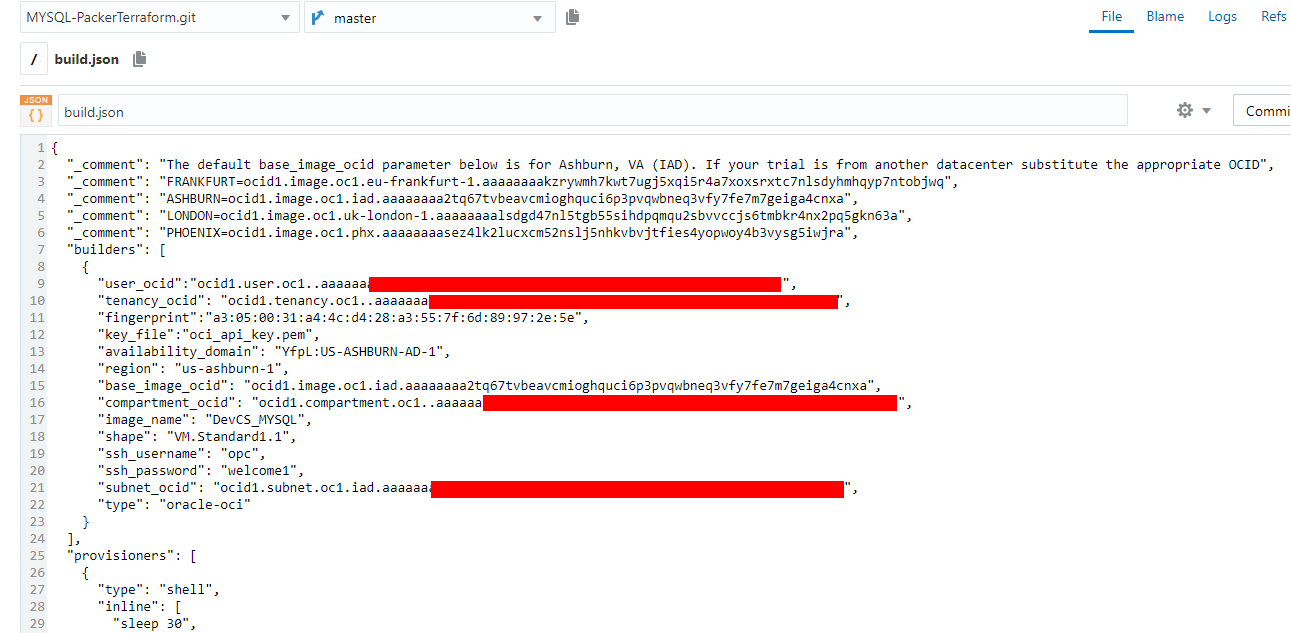
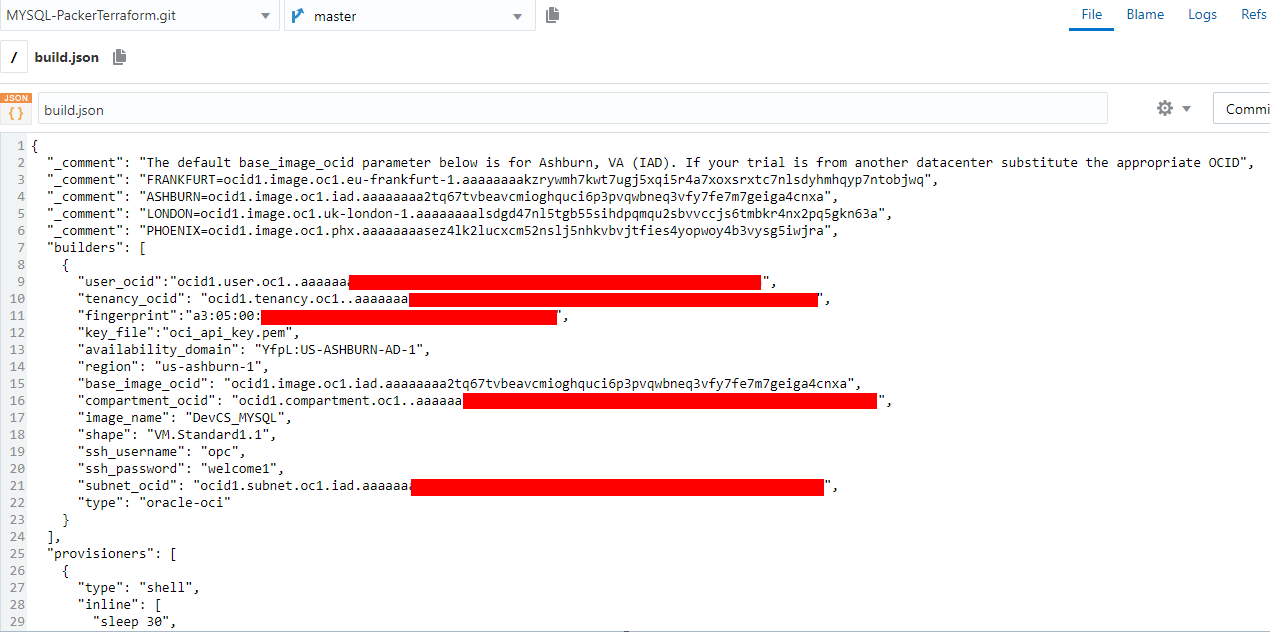
Updates for new trials

Changed region(s): [[0.0, 0.0, 1.0, 1.0], [0.8291, 0.0, 1.0, 0.0601]]

diff --git a/workshops/devcs-mysql/Lab100.md b/workshops/devcs-mysql/Lab100.md
@@ -442,7 +442,7 @@ You need to create two sets of SSH keys, the API key pair will allow access via 
 
   ![](images/100/27-4.PNG)
 
-### **STEP 9**: Create Software Template and Virtual Machine configurations
+### **STEP 10**: Create Software Template and Virtual Machine configurations
 
 In this step Software Templates define what supporting software packages get incorporated into the build servers used within Developer Cloud Service projects. Virtual Machine definitions define the number of VMs based on the Software Templates.
 
@@ -487,7 +487,7 @@ In this step Software Templates define what supporting software packages get inc
 
   ![](images/100/44.PNG)
 
-### **Step 10**: Edit the Packer "build.json" file
+### **Step 11**: Edit the Packer "build.json" file
 
 - Go to **Project Home** and click on the **MYSQL-PackerTerraform.git**  repository
 
@@ -541,7 +541,7 @@ In this step Software Templates define what supporting software packages get inc
 
   ![](images/100/56.PNG)
 
-### **Step 11**: Build the Packer job
+### **Step 12**: Build the Packer job
 
 In this step you will define a Packer build using the Software Template you created in Step 7. This will build and create a Custom Image with MYSQL, GIT, and Docker installed into your Compute Service compartment.
 
@@ -623,99 +623,77 @@ In this step you will define a Packer build using the Software Template you crea
 
   ![](images/100/72.PNG)
 
-### **Step 12**: Edit the Terraform configuration file
+### **Step 13**: Edit the Terraform configuration file
 
-In this step you'll retrieve a unique Key Pair and save those values into your text editor. The public key of the pair will be used to create a Compute Instance based on the Custom Image you just created in the previous step. The private key will be used later on in the lab when you SSH into the Compute Instance during final testing. A key pair generator has been staged in a Fn Server. You will use curl to retrieve the key pair.
+In this step you'll **Copy and Paste** the `oci_instance` key pair you generated in Step 7a or 7b and save those values into their respective file in the Git Repository. The public key of the pair will be used to create a Compute Instance based on the Custom Image you just created in the previous step. The private key will be used later on in the lab when you SSH into the Compute Instance during final testing.
 
-- From your local laptop/server open up a Command Prompt (Windows or Terminal session (Linux/Mac) and obtain a unique key pair. **Copy and Paste** the following URL:
+- Open the generated **oci_instance_key** file on your local server in a text editor, select the entire contents and right-click **Copy**:
 
-  ```
-  curl http://129.213.127.7:8080/t/genkeys/genkeys > mykeys
-  ```
+  ![](images/100/212.PNG)
 
-- A Key Pair will be returned: 
+- Go to the Developer **Git** section and click on **oci_instance_key**:
 
-  **Example (Windows Notepad will be shown):**
-
-  ![](images/100/72-2.PNG)
-
-  **NOTE:** There are three different values returned.
-    - The first part is the PRIVATE key in PEM format
-    - The second part is the PUBLIC key in PEM format
-    - The last part is the PUBLIC key in OpenSSH format
-
-  **For this lab we will be using the first and last values.**
-
-- Open the `mykeys` file in a text editor. **Copy and Paste** the PRIVATE KEY portion into the **oci_instance_key** file located in the **MYSQL-PackerTerraform.git** repository by doing the following:
-
-  - From your text editor select only the PRIVATE key value and then right-click **Copy**:
-
-   ![](images/100/72-4.PNG)
-
-  - Go to the Developer **Git** section and click on **oci_instance_key**:
-
-   ![](images/100/72-5.PNG)
+  ![](images/100/72-5.PNG)
 
   - Click the **pencil icon** to edit and then **Paste** into that file replacing the `<YOUR PRIVATE INSTANCE KEY GOES HERE>` placeholder by using **Ctrl-V** from the keyboard:
 
-   ![](images/100/72-6.PNG)
+  ![](images/100/72-6.PNG)
 
-   ![](images/100/72-7.PNG)
+  ![](images/100/72-7.PNG)
 
     **Make sure there are only 27 lines in the file!**
 
   - When all looks good click the **Commit** button. Enter a comment in the pop up dialog and click **Commit** to save.
 
-   ![](images/100/72-8.PNG)
+  ![](images/100/72-8.PNG)
 
-   ![](images/100/72-9.PNG)
+  ![](images/100/72-9.PNG)
 
-- Now repeat the sub-steps above to Copy the Public OpenSSH format key into the **oci_instance_key.pub** file in the Git repository:
+- Now, repeat the sub-steps above to Copy the public OpenSSH format key into the **oci_instance_key.pub** file in the Git repository. From your text editor select the entire contents and then right-click **Copy**:
 
-  - From your text editor select only the OpenSSH PUBLIC key value and then right-click **Copy**:
+  ![](images/100/213.PNG)
 
-   ![](images/100/72-11.PNG)
+- Go to the Developer **Git** section and click on the slash **/** and select the **oci_instance_key.pub** file:
 
-  - Go to the Developer **Git** section and click on the slash **/** and select the **oci_instance_key.pub** file:
+  ![](images/100/72-12.PNG)
 
-   ![](images/100/72-12.PNG)
+  ![](images/100/72-13.PNG)
 
-   ![](images/100/72-13.PNG)
+- Click the **pencil icon** to edit and then **Paste** into that file replacing the `<YOUR PUBLIC INSTANCE KEY GOES HERE>` placeholder by using **Ctrl-V** from the keyboard:
 
-  - Click the **pencil icon** to edit and then **Paste** into that file replacing the `<YOUR PUBLIC INSTANCE KEY GOES HERE>` placeholder by using **Ctrl-V** from the keyboard:
+  ![](images/100/72-6.PNG)
 
-   ![](images/100/72-6.PNG)
-
-   ![](images/100/72-14.PNG)
+  ![](images/100/72-14.PNG)
 
    **There is only ONE line in the file!**
 
-  - When all looks good click the **Commit** button. Enter a comment in the pop up dialog and click **Commit** to save.
+- When all looks good click the **Commit** button. Enter a comment in the pop up dialog and click **Commit** to save.
 
-   ![](images/100/72-8.PNG)
+  ![](images/100/72-8.PNG)
 
-   ![](images/100/72-15.PNG)
+  ![](images/100/72-15.PNG)
 
-### **Step 13**: Edit the Terraform configuration file
+### **Step 14**: Edit the Terraform configuration file
 
 In this step you will edit the Terraform config file. The Terraform scripting will create a new Compute Instance based on the Custom Image you created in Step 11.
 
 - You already have the baseline Terraform files in the imported Git repository. You still need to modify a few of the environment variables to match your specific Tenancy OCIDs as we did for the previous Packer build. If not already there, in the Developer project click on the **Git** link. Click on the **env-vars** file. 
 
-   ![](images/100/73.PNG)
+  ![](images/100/73.PNG)
 
 - Click the **pencil icon** to edit.
 
-   ![](images/100/54.PNG)
+  ![](images/100/54.PNG)
 
 - The following `env-vars` values will need to be **Copied and Pasted** from the values you saved into your text editor earlier in this lab:
 
-    - **TF_VAR_user_ocid**
     - **TF_VAR_tenancy_ocid**
+    - **TF_VAR_user_ocid**
+    - **TF_VAR_fingerprint**
     - **TF_VAR_compartment_ocid**
     - **TF_VAR_region**
 
-- **Fill in the 4 variables above** with the corresponding values you saved earlier. You can paste into the file using **Ctrl-V**.
+- **Fill in the 5 variables above** with the corresponding values you saved earlier. You can paste into the file using **Ctrl-V**.
 
 - So, for example:
 
@@ -741,7 +719,7 @@ In this step you will edit the Terraform config file. The Terraform scripting wi
 
   ![](images/100/56-2.PNG)
 
-### **Step 14**: Build the Terraform job
+### **Step 15**: Build the Terraform job
 
 In this step you will create and execute the Terraform build job to create a Compute instance based on the Custome Image created in the Packer build.
 
@@ -838,7 +816,7 @@ In this step you will create and execute the Terraform build job to create a Com
 
   ![](images/100/84.PNG)
 
-### **Step 15**: Build a Pipeline flow
+### **Step 16**: Build a Pipeline flow
 
 Now that you have built and tested the Packer and Terraform builds we will show you how to define a flow using the Pipeline capabilities in Developer Cloud Service. 
 
@@ -870,7 +848,7 @@ Now that you have built and tested the Packer and Terraform builds we will show 
 
   ![](images/100/89.PNG)
 
-### **Step 16**: (**OPTIONAL**) Execute the Pipeline
+### **Step 17**: (**OPTIONAL**) Execute the Pipeline
 
 This is an optional step which will create the Custom Image and Compute instance in one sequential build. Typically, there would be a clean up "build" in front of this flow to delete the older versions. That is out of the scope of this lab but if you'd like to execute the Pipeline you can manually delete the Compute instance and Custom Image first. If you don't delete them first you'll get another Custom Image AND Compute instance with unique OCID's even though the displayed names would be the same.
 
@@ -916,69 +894,29 @@ This is an optional step which will create the Custom Image and Compute instance
 
   ![](images/100/100.PNG)
 
-### **STEP 17a**: SSH into the `MYSQL` Compute Instance (Windows)
+### **STEP 18a**: SSH into the `MYSQL` Compute Instance (Windows)
 
 In this step you will SSH into the Compute instance and verify the MYSQL installation. Here, we will show two methods to SSH into the instance; Putty (for Windows based clients) and Linux/Mac.
 
-**`NOTE: If you are using Linux or Mac client then go to STEP 17b`**
+**NOTE: If you are using Linux or Mac client then go to STEP 18b**
 
-- If you need Putty and/or PuttyGen you can download from here: - [Putty Download](https://www.ssh.com/ssh/putty/download)
-
-- In the Developer project click on the **Git** link and in the `MYSQL-PackerTerraform.git` repository click on the **oci_instance_key** file. Select the entire contents of the file and right-click **Copy**.
-
-  ![](images/100/100-1.PNG)
-
-  ![](images/100/100-2.PNG)
-
-- **Save the contents into a file on your local laptop**. (Example: You can save it as openssl.key)
-
-- We need to convert the OpenSSL format version of the oci_instance_key to PPK. If using Windows **start PuttyGen** and **Load** the file you just saved. 
-
-  ![](images/100/100-3.PNG)
-
-- Save the imported key in PPK format by clicking **Save Private Key**. If prompted that you are saving without a Passphrase that is fine. we will save without a Passphrase.
-
-  ![](images/100/100-4.PNG)
-
-- Save the file as: (**NOTE:** The .ppk suffix will be added)
-
-  ```
-  MYSQL
-  ```
-
-  ![](images/100/100-5.PNG)
-
-- **Exit** PuttyGen.
-
-- **Start Putty** and select the **Session** section and type in the Public IP address of the `MYSQL` Compute Instance. This IP address is in the Details page:
+- In the OCI Console go to the newly created instance and click the **Instance Details** link. There you will note the Public IP address of the `MYSQL` Compute Instance:
 
   Example:
 
   ![](images/100/100-6.PNG)
 
-- Use the IP adress in the **Putty Session-->Host Name** field.
-
-  ![](images/100/101.PNG)
-
-- Select the **Data** section and enter the following as the **Auto-login username**:
+- From your local laptop / server make sure you're in the directory where your generated **oci_instance_key** file resides. **Type** the following substituting your public IP address:
 
   ```
-  opc
+  ssh -i .\oci_instance_key opc@<PUBLIC IP>
   ```
 
-- Screenshot:
+- When prompted to accept the authentication of the host type **yes**: 
 
-  ![](images/100/102.PNG)
+  ![](images/100/214.PNG)
 
-- Select **SSH-->Auth** and browse to the Private Key you just saved (`MYSQL.ppk`):
-
-  ![](images/100/103.PNG) 
-
-- Click the **Open** button. You will presented the first time with an alert message. Click **Yes**
-
-  ![](images/100/104.PNG)
-
-- You will be logged into the `MYSQL` Compute image. Type the following cmds:
+- You are now logged into the `MYSQL` Compute image. Type the following cmds:
 
   ```
   hostname
@@ -989,48 +927,35 @@ In this step you will SSH into the Compute instance and verify the MYSQL install
 
   ![](images/100/105.PNG)
 
-### **STEP 17b**: SSH into the `MYSQL` Compute Instance (Linux/Mac)
+### **STEP 18b**: SSH into the `MYSQL` Compute Instance (Linux/Mac)
 
-- In the Developer project click on the **Git** link and in the `MYSQL-PackerTerraform.git` repository click on the **oci_instance_key** file. Select the entire contents of the file and right-click **Copy**.
-
-  ![](images/100/100-1.PNG)
-
-  ![](images/100/100-2.PNG)
-
-- **Open a terminal session save the contents into a file**.   
- 
-  (Example: You can save it as MYSQL.key)
-
-- Make sure your private key file has the permissions of "600".
-
-  - **Type:** (using the name you gave the key file):
-
-  ```
-  chmod 600 MYSQL.key
-  ```
-
-- Verify the change took place using:
-
-  ```
-  ls -l MYSQL.key
-  ```
-
-  ![](images/100/100-7.PNG)
-
-- Find the Public IP address found in the Details page of the MY_SQL Compute Instance:
+- In the OCI Console go to the newly created instance and click the **Instance Details** link. There you will note the Public IP address of the `MYSQL` Compute Instance:
 
   Example:
 
   ![](images/100/100-6.PNG)
 
+- From your local laptop / server make sure you're in the directory where your generated **oci_instance_key** file resides. Make sure your private key file has the permissions of "600".
+
+- **Type:** (using the name you gave the key file):
+
+  ```
+  chmod 600 oci_instance_key
+  ```
+
+- Verify the change took place using:
+
+  ```
+  ls -l oci_instance_key
+  ```
+
+  ![](images/100/100-7.PNG)
 
 - SSH into the instance using the following command:
 
   ```
-  ssh -i ./MYSQL.key opc@<PUBLIC IP>
+  ssh -i ./oci_instance_key opc@<PUBLIC IP>
   ```
-
-  Example: `ssh -i ./MYSQL.key opc@129.213.17.80`
 
   The first time you will be prompted to authenticate. Type **yes**.
 
@@ -1045,11 +970,11 @@ In this step you will SSH into the Compute instance and verify the MYSQL install
 
   ![](images/100/106.PNG)
 
-### **STEP 18**: Verify the MYSQL, Git and Docker installations
+### **STEP 19**: Verify the MYSQL, Git and Docker installations
 
 In this step you are SSH'ed into the `MYSQL` Compute instance and you'll execute a few commands to verify that MYSQL was installed OK and the database schema for the AlphaOffice application is there.
 
-- From ether your Windows Putty or Lixux/Mac SSH session **Type** the following:
+- From your SSH session **Type** the following:
 
   ```
   mysql -ualpha -pAlpha2018_
@@ -1074,7 +999,7 @@ In this step you are SSH'ed into the `MYSQL` Compute instance and you'll execute
 
   ![](images/100/108.PNG) 
 
-- To exit your Putty or Terminal session **Type**:
+- To exit your terminal session **Type**:
 
   ```
   exit
